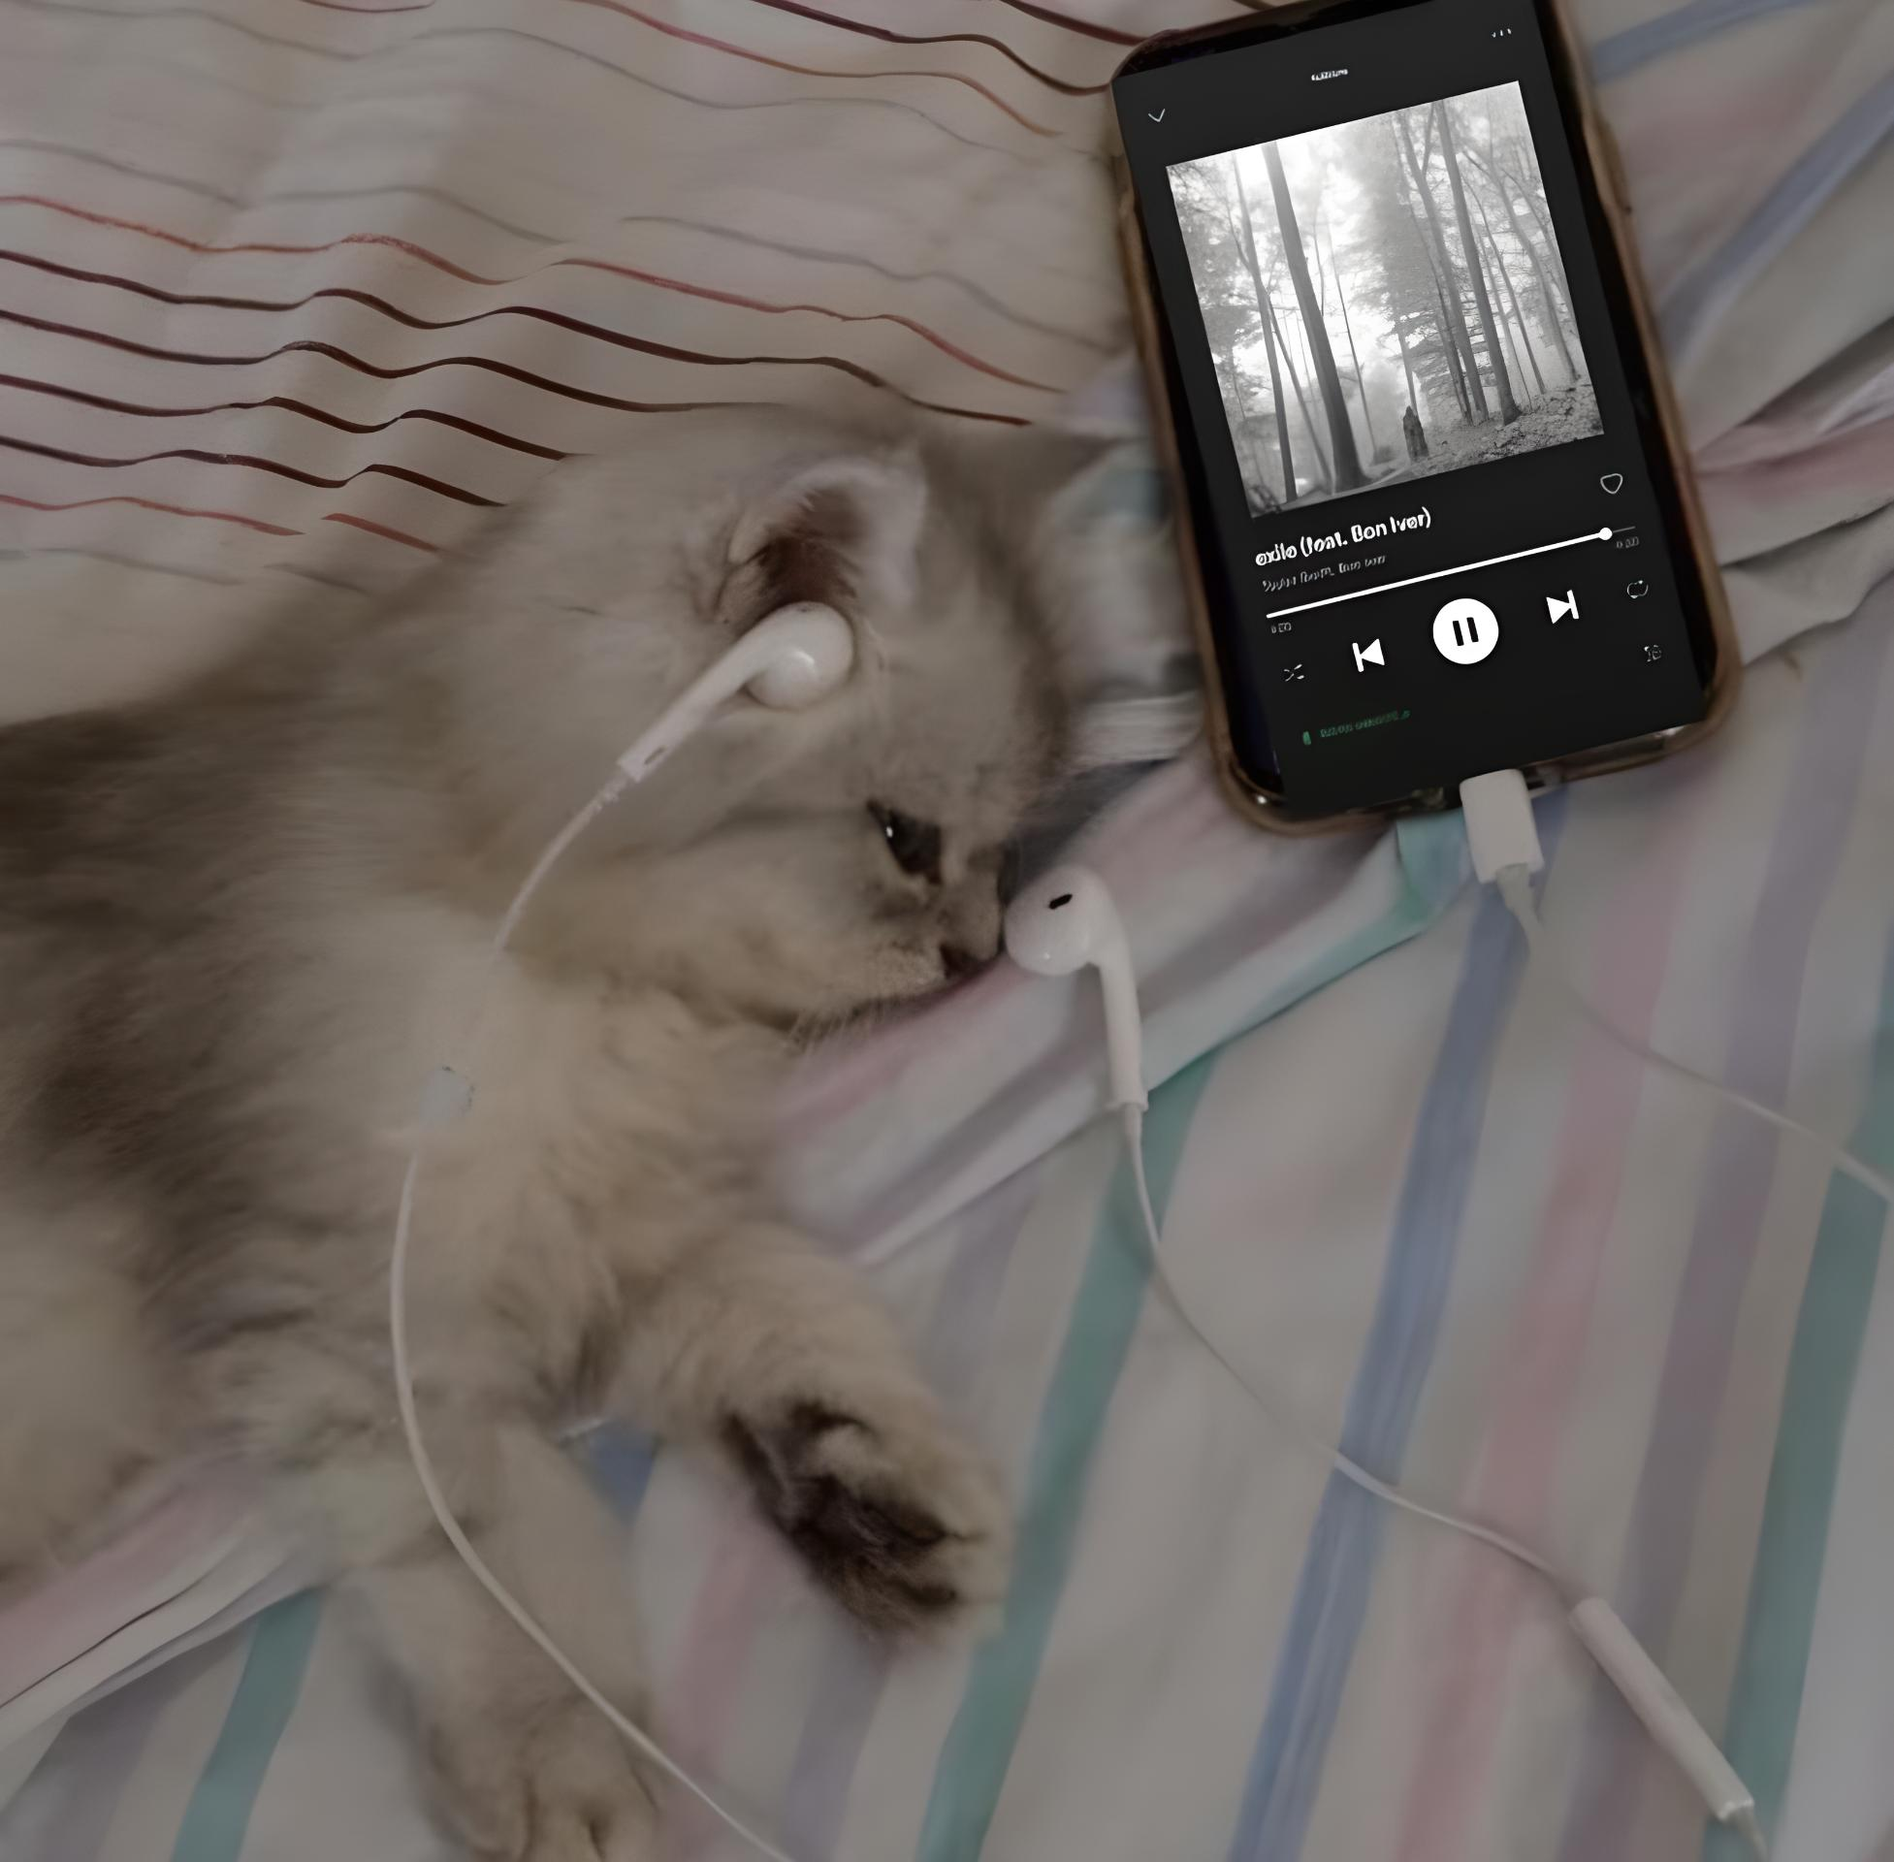
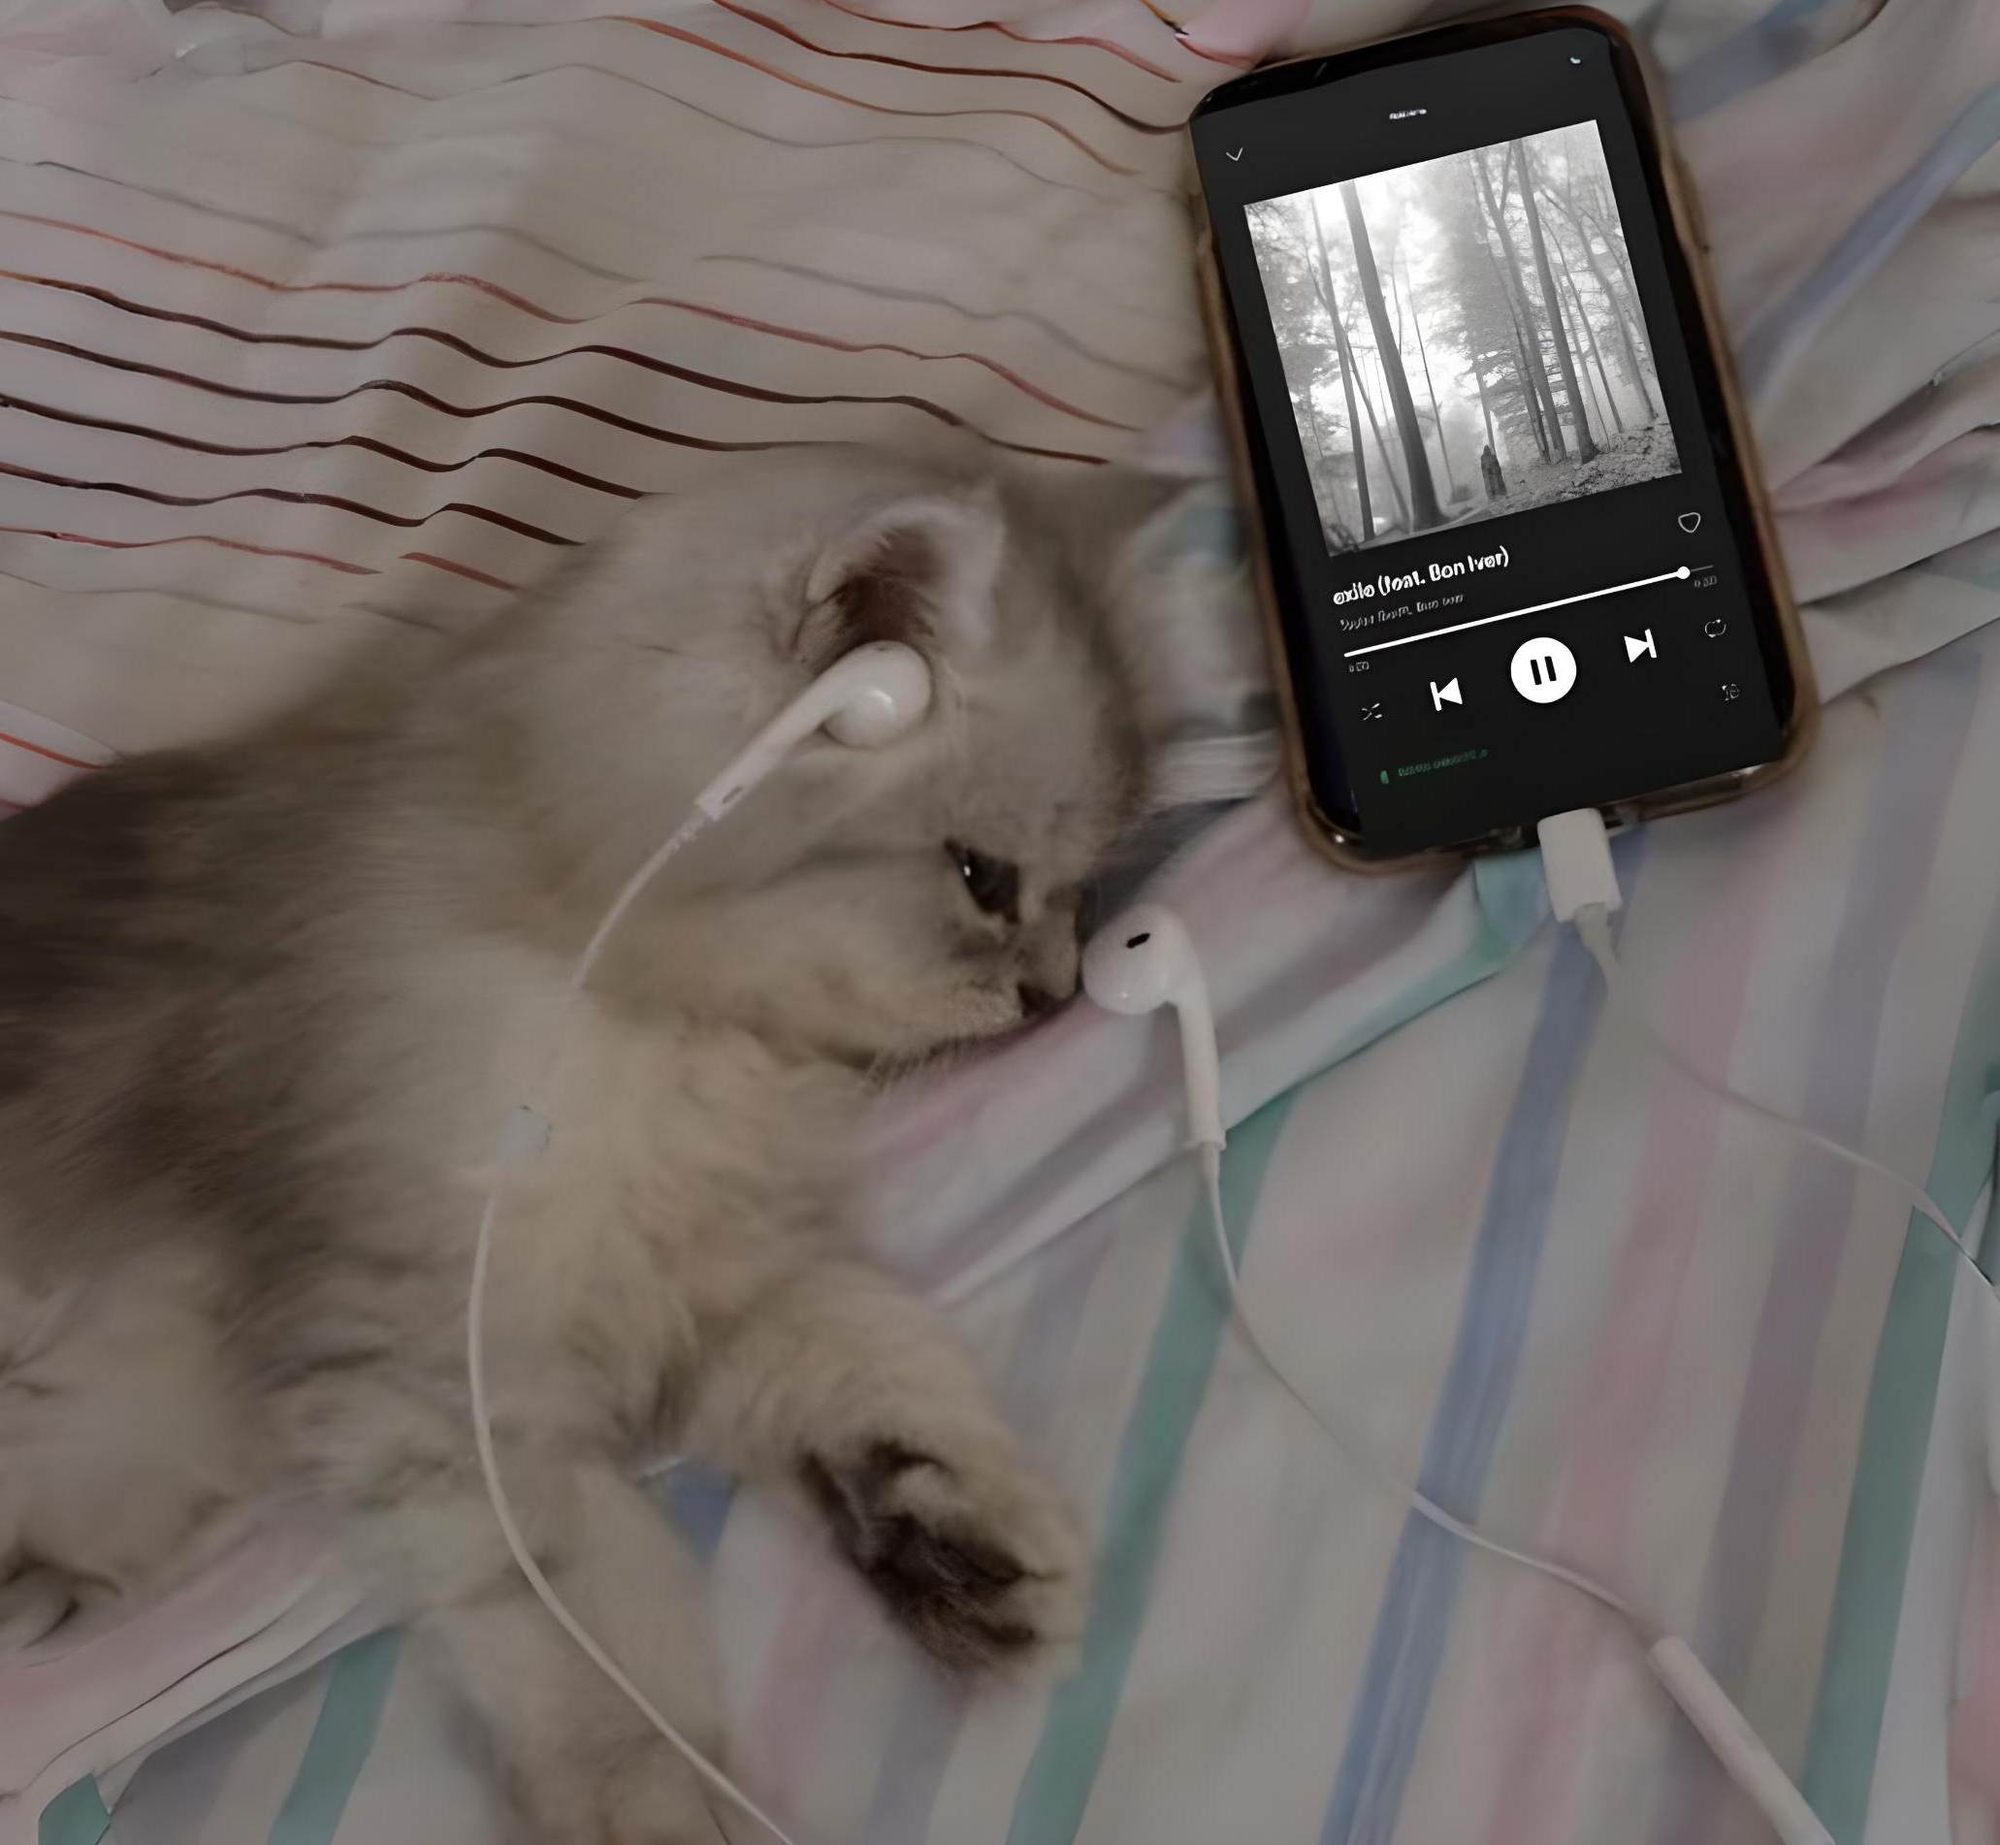
fix background image

diff --git a/frames/actions.py b/frames/actions.py
@@ -94,10 +94,10 @@ class CatMusicAction(DistortImageAction):
     name = "Cat Music"
     background_path = "backgrounds/catmusic.jpg"
     corners = [
-        (1152, 89),
-        (1554, -12),
-        (1764, 731),
-        (1312, 811),
+        (1232, 131),
+        (1635, 23),
+        (1850, 760),
+        (1396, 866),
     ]        
     
 actions: List[ActionABC] = [
